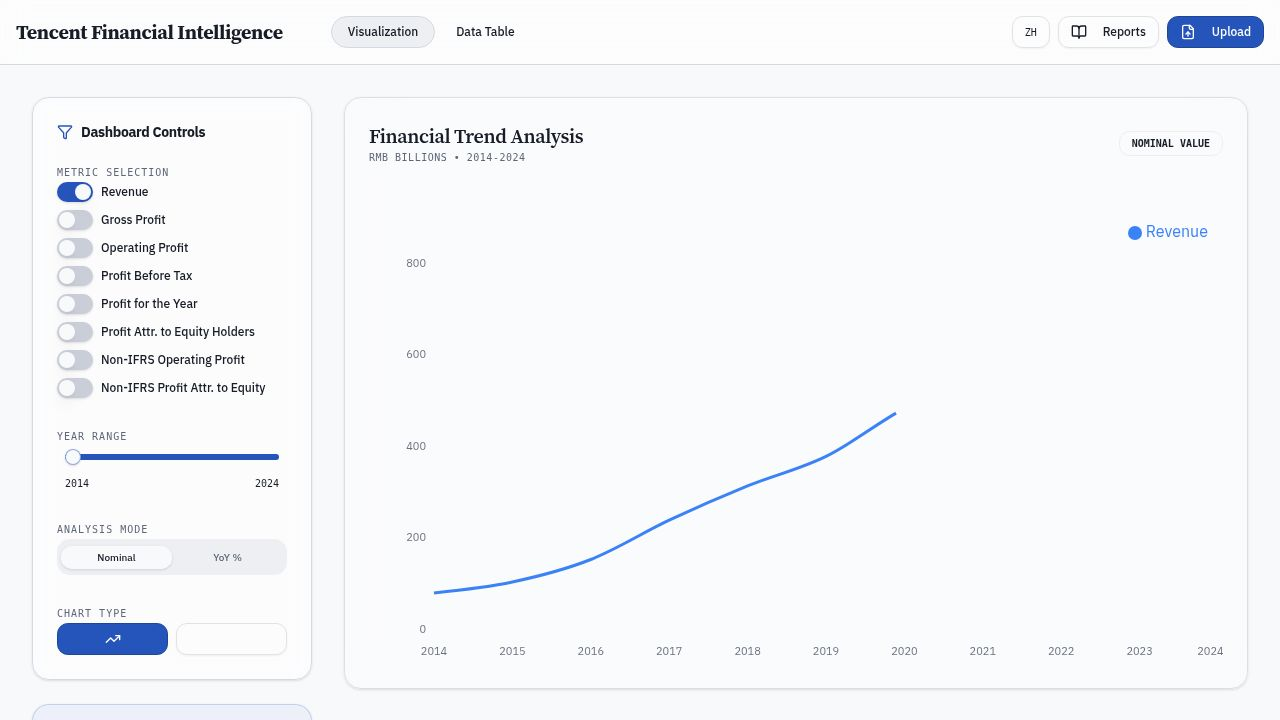
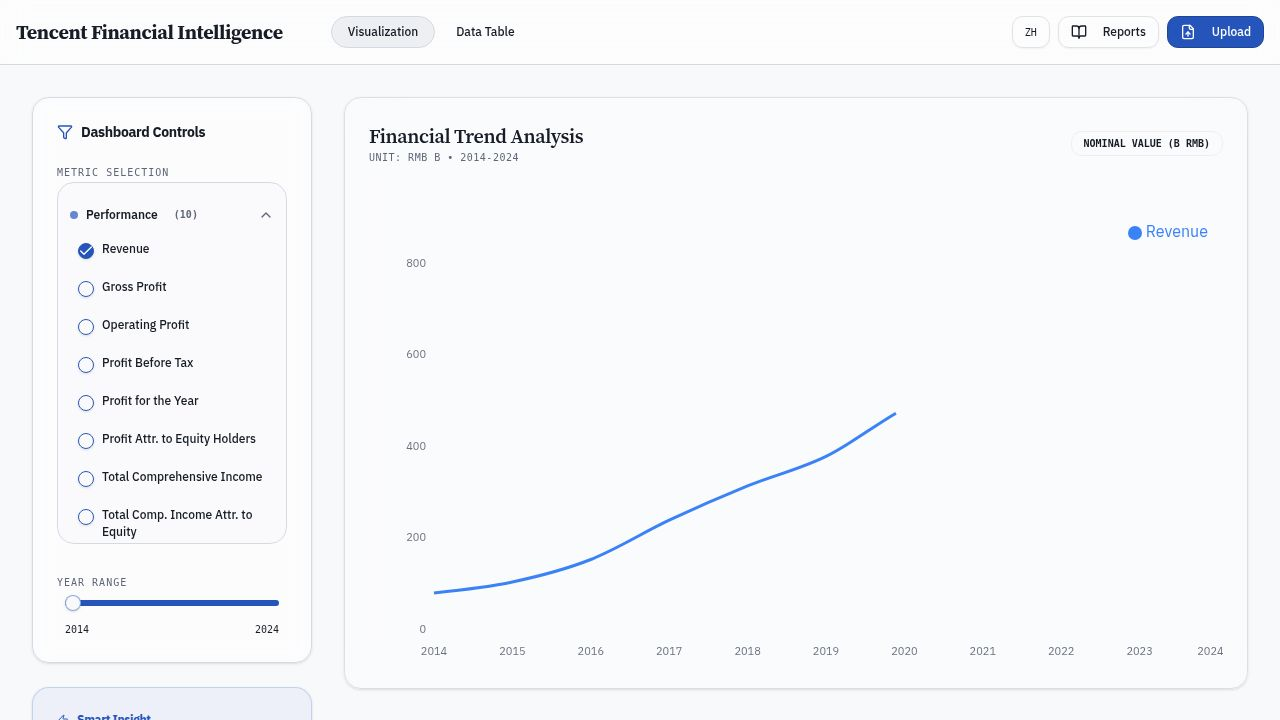
Add box plot visualization and year selection to financial dashboard
Enhance dashboard with box plot chart type via ComposedChart and Scatter, enable dynamic year selection for Revenue Composition using Select component, and update unit labels.

Replit-Commit-Author: Agent
Replit-Commit-Session-Id: c8028b98-c1aa-4d53-8d69-89a851cd473f
Replit-Commit-Checkpoint-Type: full_checkpoint
Replit-Commit-Event-Id: 6dd49c8f-9efb-4037-9d42-75c260ae0321
Replit-Commit-Screenshot-Url: https://storage.googleapis.com/screenshot-production-us-central1/383d7f69-fa15-47cb-b485-3c9fb8a079de/c8028b98-c1aa-4d53-8d69-89a851cd473f/m9qvNlm
Replit-Helium-Checkpoint-Created: true

diff --git a/client/src/pages/dashboard.tsx b/client/src/pages/dashboard.tsx
@@ -1,7 +1,7 @@
 import { useState, useMemo } from "react";
 import { 
   BarChart, Bar, XAxis, YAxis, CartesianGrid, Tooltip, Legend, ResponsiveContainer, LineChart, Line,
-  AreaChart, Area, Cell, ComposedChart
+  AreaChart, Area, Cell, ComposedChart, Scatter
 } from "recharts";
 import { 
   TrendingUp, TrendingDown, DollarSign, PieChart, Activity, 
@@ -28,9 +28,6 @@ import { Label } from "@/components/ui/label";
 import { Accordion, AccordionContent, AccordionItem, AccordionTrigger } from "@/components/ui/accordion";
 import { Checkbox } from "@/components/ui/checkbox";
 import { extent, quantileSorted } from "d3-array";
-
-const UNIT_BILLIONS = "B";
-const UNIT_PERCENT = "%";
 
 const UNIT_BILLIONS = "B";
 const UNIT_PERCENT = "%";
@@ -577,14 +574,84 @@ export default function Dashboard() {
                         </CardDescription>
                       </div>
                       <Badge variant="outline" className="tfi-mono text-[10px] uppercase py-1 px-3">
-                        {plotMode === "yoy" ? `YoY Change ${UNIT_PERCENT}` : `Nominal Value (${UNIT_BILLIONS} RMB)`}
+                        {plotMode === "yoy" ? `YoY Change ${UNIT_PERCENT}` : plotType === "box" ? `Distribution (${UNIT_BILLIONS} RMB)` : `Nominal Value (${UNIT_BILLIONS} RMB)`}
                       </Badge>
                     </div>
                   </CardHeader>
                   <CardContent className="pt-8">
                     <div className="h-[450px] w-full">
                       <ResponsiveContainer width="100%" height="100%">
-                        {plotType === "line" ? (
+                        {plotType === "box" ? (
+                          <ComposedChart data={filteredData} margin={{ left: 6, right: 16, top: 10, bottom: 8 }}>
+                            <CartesianGrid strokeDasharray="3 3" vertical={false} stroke="rgba(255,255,255,0.05)" />
+                            <XAxis dataKey="year" stroke="#6b7280" fontSize={11} tickLine={false} axisLine={false} dy={10} />
+                            <YAxis
+                              stroke="#6b7280"
+                              fontSize={11}
+                              tickLine={false}
+                              axisLine={false}
+                              tickFormatter={(v) => `${v}`}
+                            />
+                            <Tooltip
+                              cursor={{ fill: "rgba(255,255,255,0.05)" }}
+                              contentStyle={{
+                                backgroundColor: "rgba(17, 24, 39, 0.95)",
+                                borderRadius: "12px",
+                                border: "1px solid rgba(255,255,255,0.1)",
+                                fontSize: "12px",
+                              }}
+                            />
+                            {/* Render one box per year for the first selected metric */}
+                            {(() => {
+                              const metric = selectedMetrics[0] ?? "revenue";
+                              const values = filteredData
+                                .map((d: any) => Number(d[metric]))
+                                .filter((n: number) => Number.isFinite(n))
+                                .sort((a: number, b: number) => a - b);
+                              const q1 = values.length ? quantileSorted(values, 0.25) ?? 0 : 0;
+                              const median = values.length ? quantileSorted(values, 0.5) ?? 0 : 0;
+                              const q3 = values.length ? quantileSorted(values, 0.75) ?? 0 : 0;
+                              const min = values.length ? values[0] : 0;
+                              const max = values.length ? values[values.length - 1] : 0;
+
+                              return (
+                                <Scatter
+                                  dataKey="year"
+                                  name={t(METRICS[metric as MetricKey]?.label ?? "Metric", METRICS[metric as MetricKey]?.zh ?? "\u6307\u6807")}
+                                  shape={(props: any) => {
+                                    const { cx, yAxis } = props;
+                                    const boxWidth = 26;
+                                    const yScale = (val: number) => (yAxis?.scale ? yAxis.scale(val) : 0);
+                                    const yMin = yScale(min);
+                                    const yQ1 = yScale(q1);
+                                    const yMed = yScale(median);
+                                    const yQ3 = yScale(q3);
+                                    const yMax = yScale(max);
+                                    return (
+                                      <g>
+                                        <line x1={cx} y1={yMin} x2={cx} y2={yQ1} stroke="rgba(255,255,255,0.55)" strokeWidth={2} />
+                                        <line x1={cx} y1={yQ3} x2={cx} y2={yMax} stroke="rgba(255,255,255,0.55)" strokeWidth={2} />
+                                        <line x1={cx - boxWidth / 3} y1={yMin} x2={cx + boxWidth / 3} y2={yMin} stroke="rgba(255,255,255,0.55)" strokeWidth={2} />
+                                        <line x1={cx - boxWidth / 3} y1={yMax} x2={cx + boxWidth / 3} y2={yMax} stroke="rgba(255,255,255,0.55)" strokeWidth={2} />
+                                        <rect
+                                          x={cx - boxWidth / 2}
+                                          y={Math.min(yQ3, yQ1)}
+                                          width={boxWidth}
+                                          height={Math.abs(yQ1 - yQ3)}
+                                          rx={6}
+                                          fill="rgba(99, 102, 241, 0.35)"
+                                          stroke="rgba(99, 102, 241, 0.8)"
+                                        />
+                                        <line x1={cx - boxWidth / 2} y1={yMed} x2={cx + boxWidth / 2} y2={yMed} stroke="rgba(255,255,255,0.85)" strokeWidth={2} />
+                                      </g>
+                                    );
+                                  }}
+                                  data={filteredData.map((d) => ({ year: d.year }))}
+                                />
+                              );
+                            })()}
+                          </ComposedChart>
+                        ) : plotType === "line" ? (
                           <LineChart data={filteredData}>
                             <CartesianGrid strokeDasharray="3 3" vertical={false} stroke="rgba(255,255,255,0.05)" />
                             <XAxis 
@@ -673,25 +740,46 @@ export default function Dashboard() {
 
                 {/* Sub-metrics Grid */}
                 <div className="grid grid-cols-1 md:grid-cols-2 gap-6">
-                  {/* Revenue Composition (2024 example) */}
+                  {/* Revenue Composition */}
                   <Card className="bg-card/20 backdrop-blur-sm border-card-border">
-                    <CardHeader>
-                      <CardTitle className="text-sm font-bold flex items-center gap-2">
-                        <PieChart className="w-4 h-4 text-primary" />
-                        {t("Revenue Composition (2024)", "营收结构 (2024)")}
-                      </CardTitle>
+                    <CardHeader className="space-y-3">
+                      <div className="flex items-start justify-between gap-3">
+                        <CardTitle className="text-sm font-bold flex items-center gap-2">
+                          <PieChart className="w-4 h-4 text-primary" />
+                          {t(`Revenue Composition (${compositionYear})`, `营收结构 (${compositionYear})`)}
+                        </CardTitle>
+                        <div className="min-w-[120px]">
+                          <Select value={String(compositionYear)} onValueChange={(v) => setCompositionYear(Number(v))}>
+                            <SelectTrigger data-testid="select-composition-year" className="h-8">
+                              <SelectValue placeholder={t("Year", "年份")} />
+                            </SelectTrigger>
+                            <SelectContent>
+                              {DATA.map((d) => (
+                                <SelectItem data-testid={`select-item-composition-year-${d.year}`} key={d.year} value={String(d.year)}>
+                                  {d.year}
+                                </SelectItem>
+                              ))}
+                            </SelectContent>
+                          </Select>
+                        </div>
+                      </div>
+                      <CardDescription className="tfi-mono text-[10px] uppercase tracking-widest text-muted-foreground">
+                        {t(`Unit: RMB ${UNIT_BILLIONS}`, `单位：人民币 ${UNIT_BILLIONS}`)}
+                      </CardDescription>
                     </CardHeader>
                     <CardContent>
                       <div className="h-[200px]">
                         <ResponsiveContainer width="100%" height="100%">
                           <BarChart 
                             layout="vertical" 
-                            data={[
-                              { name: t("VAS", "增值服务"), value: 352.44, fill: "#3b82f6" },
-                              { name: t("Marketing", "营销服务"), value: 112.33, fill: "#10b981" },
-                              { name: t("FinTech", "金融科技"), value: 225.22, fill: "#f59e0b" },
-                              { name: t("Others", "其他"), value: 15.44, fill: "#8b5cf6" },
-                            ]}
+                            data={(DATA.find((d) => d.year === compositionYear)
+                              ? [
+                                  { name: t("VAS", "增值服务"), value: (DATA.find((d) => d.year === compositionYear) as any).vasRevenue, fill: "#3b82f6" },
+                                  { name: t("Marketing", "营销服务"), value: (DATA.find((d) => d.year === compositionYear) as any).marketingServicesRevenue, fill: "#10b981" },
+                                  { name: t("FinTech", "金融科技"), value: (DATA.find((d) => d.year === compositionYear) as any).fintechRevenue, fill: "#f59e0b" },
+                                  { name: t("Others", "其他"), value: (DATA.find((d) => d.year === compositionYear) as any).othersRevenue, fill: "#8b5cf6" },
+                                ]
+                              : [])}
                             margin={{ left: 30 }}
                           >
                             <XAxis type="number" hide />
@@ -706,7 +794,7 @@ export default function Dashboard() {
                       <div className="mt-4 grid grid-cols-2 gap-2">
                         <div className="p-2 rounded-lg bg-muted/30 border border-border/50">
                           <p className="text-[10px] text-muted-foreground uppercase">{t("Total Revenue", "总营收")}</p>
-                          <p className="text-sm font-bold tfi-mono">660.34B</p>
+                          <p className="text-sm font-bold tfi-mono">{formatValue((DATA.find((d) => d.year === compositionYear) as any)?.revenue ?? 0)}{UNIT_BILLIONS}</p>
                         </div>
                         <div className="p-2 rounded-lg bg-muted/30 border border-border/50">
                           <p className="text-[10px] text-muted-foreground uppercase">{t("Growth", "同比增长")}</p>
@@ -719,10 +807,13 @@ export default function Dashboard() {
                   {/* Profit Margins Analysis */}
                   <Card className="bg-card/20 backdrop-blur-sm border-card-border">
                     <CardHeader>
-                      <CardTitle className="text-sm font-bold flex items-center gap-2">
-                        <Activity className="w-4 h-4 text-primary" />
-                        {t("Profit Margins Trend", "利润率趋势")}
-                      </CardTitle>
+                      <div className="flex items-start justify-between gap-3">
+                        <CardTitle className="text-sm font-bold flex items-center gap-2">
+                          <Activity className="w-4 h-4 text-primary" />
+                          {t("Profit Margins Trend", "利润率趋势")}
+                        </CardTitle>
+                        <Badge variant="outline" className="tfi-mono text-[10px] uppercase py-1 px-3">{`Unit: ${UNIT_PERCENT}`}</Badge>
+                      </div>
                     </CardHeader>
                     <CardContent>
                       <div className="h-[200px]">
@@ -730,7 +821,7 @@ export default function Dashboard() {
                           <LineChart data={DATA.slice().reverse()}>
                             <XAxis dataKey="year" fontSize={9} hide />
                             <YAxis fontSize={9} hide />
-                            <Tooltip />
+                            <Tooltip formatter={(v: any) => `${Number(v).toFixed(2)}${UNIT_PERCENT}`} />
                             <Line 
                               type="monotone" 
                               dataKey={(d) => (d.grossProfit / d.revenue) * 100} 
